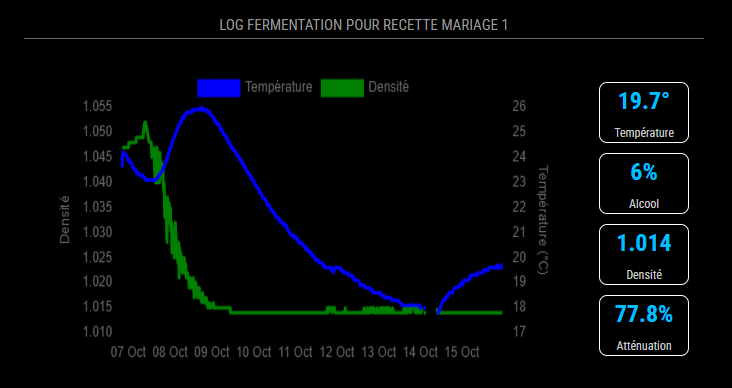
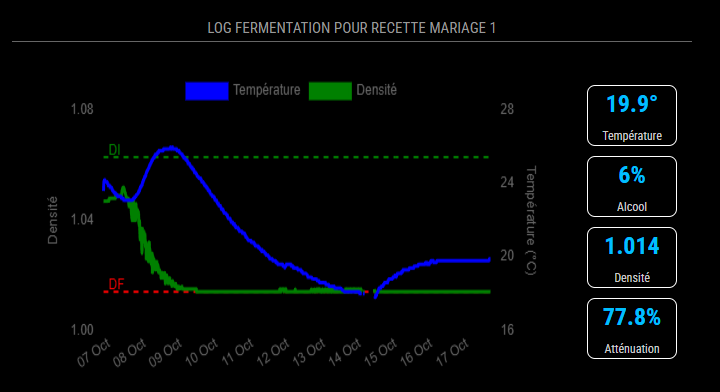
(feat) improve horizontal display

diff --git a/MMM-LittleBockFermentationLog.js b/MMM-LittleBockFermentationLog.js
@@ -177,6 +177,11 @@ Module.register("MMM-LittleBockFermentationLog", {
             yGravity: parseFloat(item.gravity)
         }));
 
+        const valuesToDrawLinesAt = [
+            {value: this.getInitialGravity(), color: "green", lineWidth: 2, lineDash: [5, 5], text: "DI" },
+            {value: this.getFinaleGravity(), color: "red",  lineWidth: 2, lineDash: [5, 5], text: "DF" },
+        ]
+
         new Chart(ctx, {
             type: 'line',
             data: {
@@ -212,9 +217,6 @@ Module.register("MMM-LittleBockFermentationLog", {
                             displayFormats: {
                                 day: 'DD MMM' 
                             }
-                        },
-                        ticks: {
-                            maxTicksLimit: 10 
                         }
                     }],
                     yAxes: [
@@ -225,18 +227,52 @@ Module.register("MMM-LittleBockFermentationLog", {
                             scaleLabel: {
                                 display: true,
                                 labelString: 'Température (°C)'
-                            }
+                            },
+                            ticks: {
+                                stepSize: 4
+                            },
                         },
                         {
                             id: 'y-density',
+                            min: 1.000,
                             type: 'linear',
                             position: 'left',
                             scaleLabel: {
                                 display: true,
                                 labelString: 'Densité'
-                            }
+                            },
+                            ticks: {
+                                stepSize: 0.04
+                            },
                         }
                     ]
+                }
+            },
+            plugins: {
+                beforeDraw: function(chart) {
+
+                    const ctx = chart.ctx;
+                    const yScale = chart.scales['y-density'];
+            
+                    ctx.save();
+                    ctx.font = '12px Arial';
+
+                    valuesToDrawLinesAt.forEach(item => {
+                        if (item.value) {
+                            const yPos = yScale.getPixelForValue(item.value);
+                            ctx.fillStyle = item.color;
+                            ctx.strokeStyle = item.color;
+                            ctx.lineWidth = item.lineWidth;
+                            ctx.setLineDash(item.lineDash);
+                            ctx.fillText(item.text, chart.chartArea.left + 5, yPos - 5);
+                            ctx.beginPath();
+                            ctx.moveTo(chart.chartArea.left, yPos);
+                            ctx.lineTo(chart.chartArea.right, yPos);
+                            ctx.stroke();
+                        }
+                    });
+            
+                    ctx.restore();
                 }
             }
         });
@@ -274,6 +310,10 @@ Module.register("MMM-LittleBockFermentationLog", {
 
     getInitialGravity() {
         return this.recipeData["estOG"];
+    },
+
+    getFinaleGravity() {
+        return this.recipeData["estFG"];
     },
     
     getCurrentGravity() {
